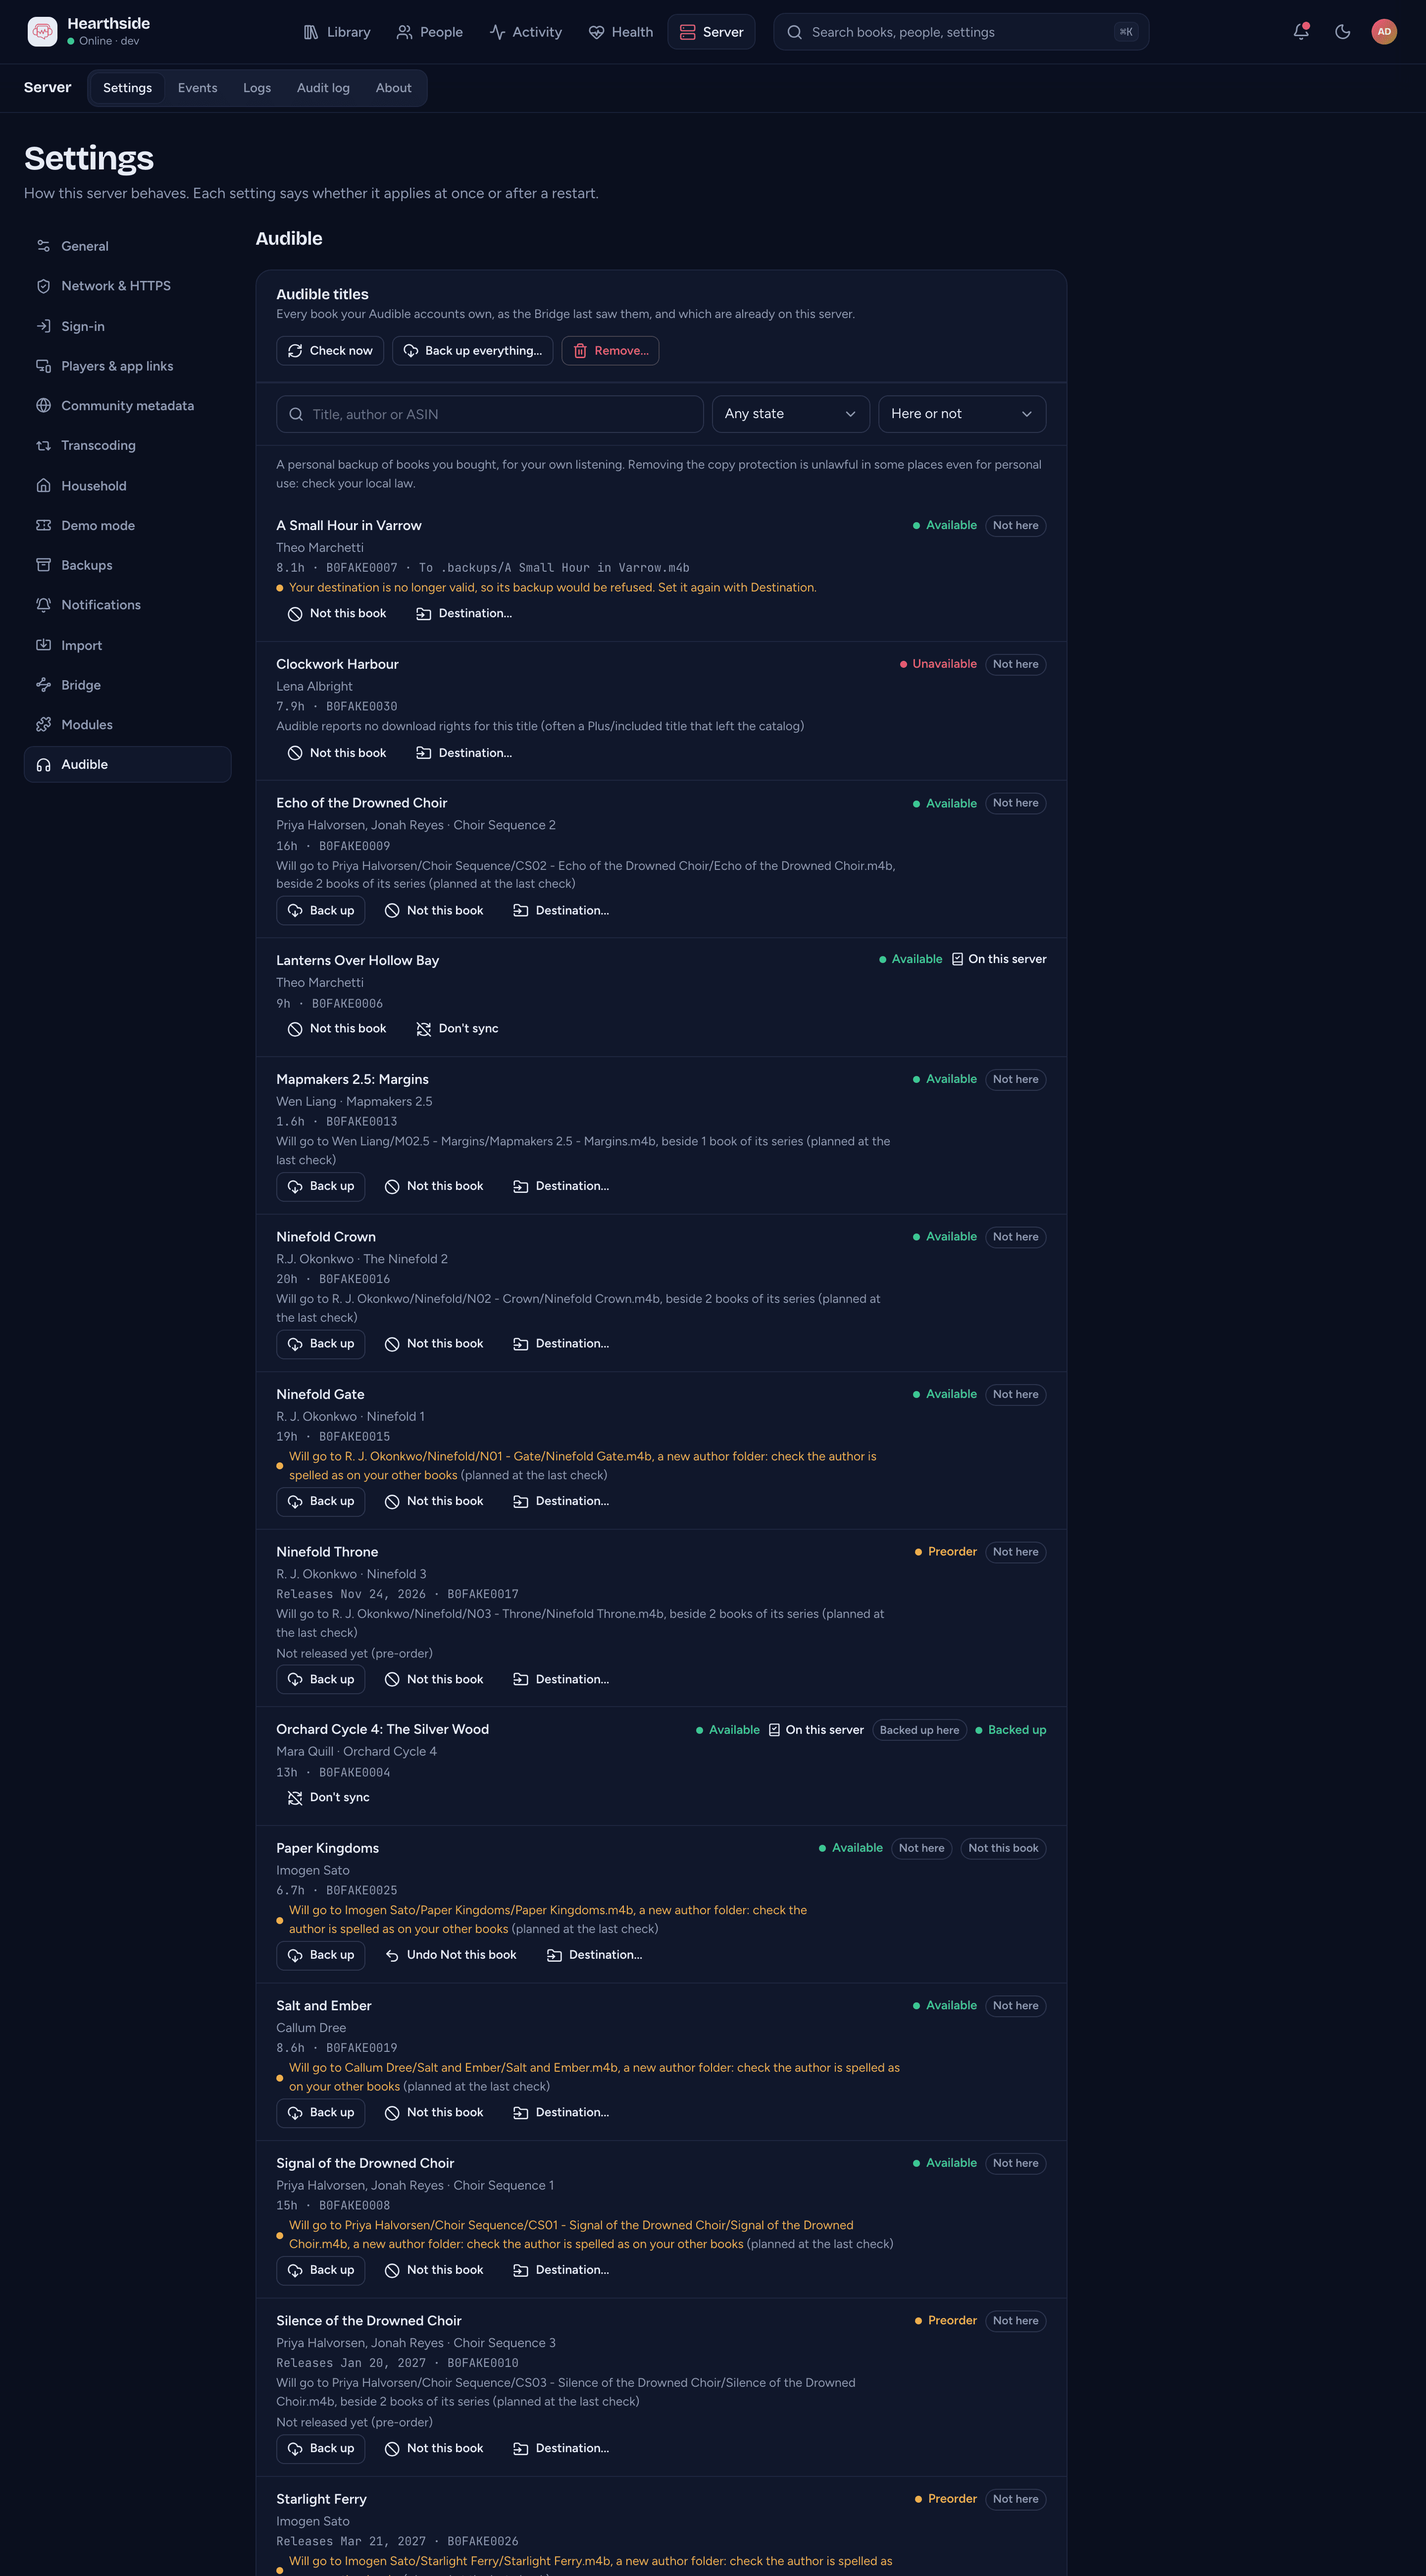
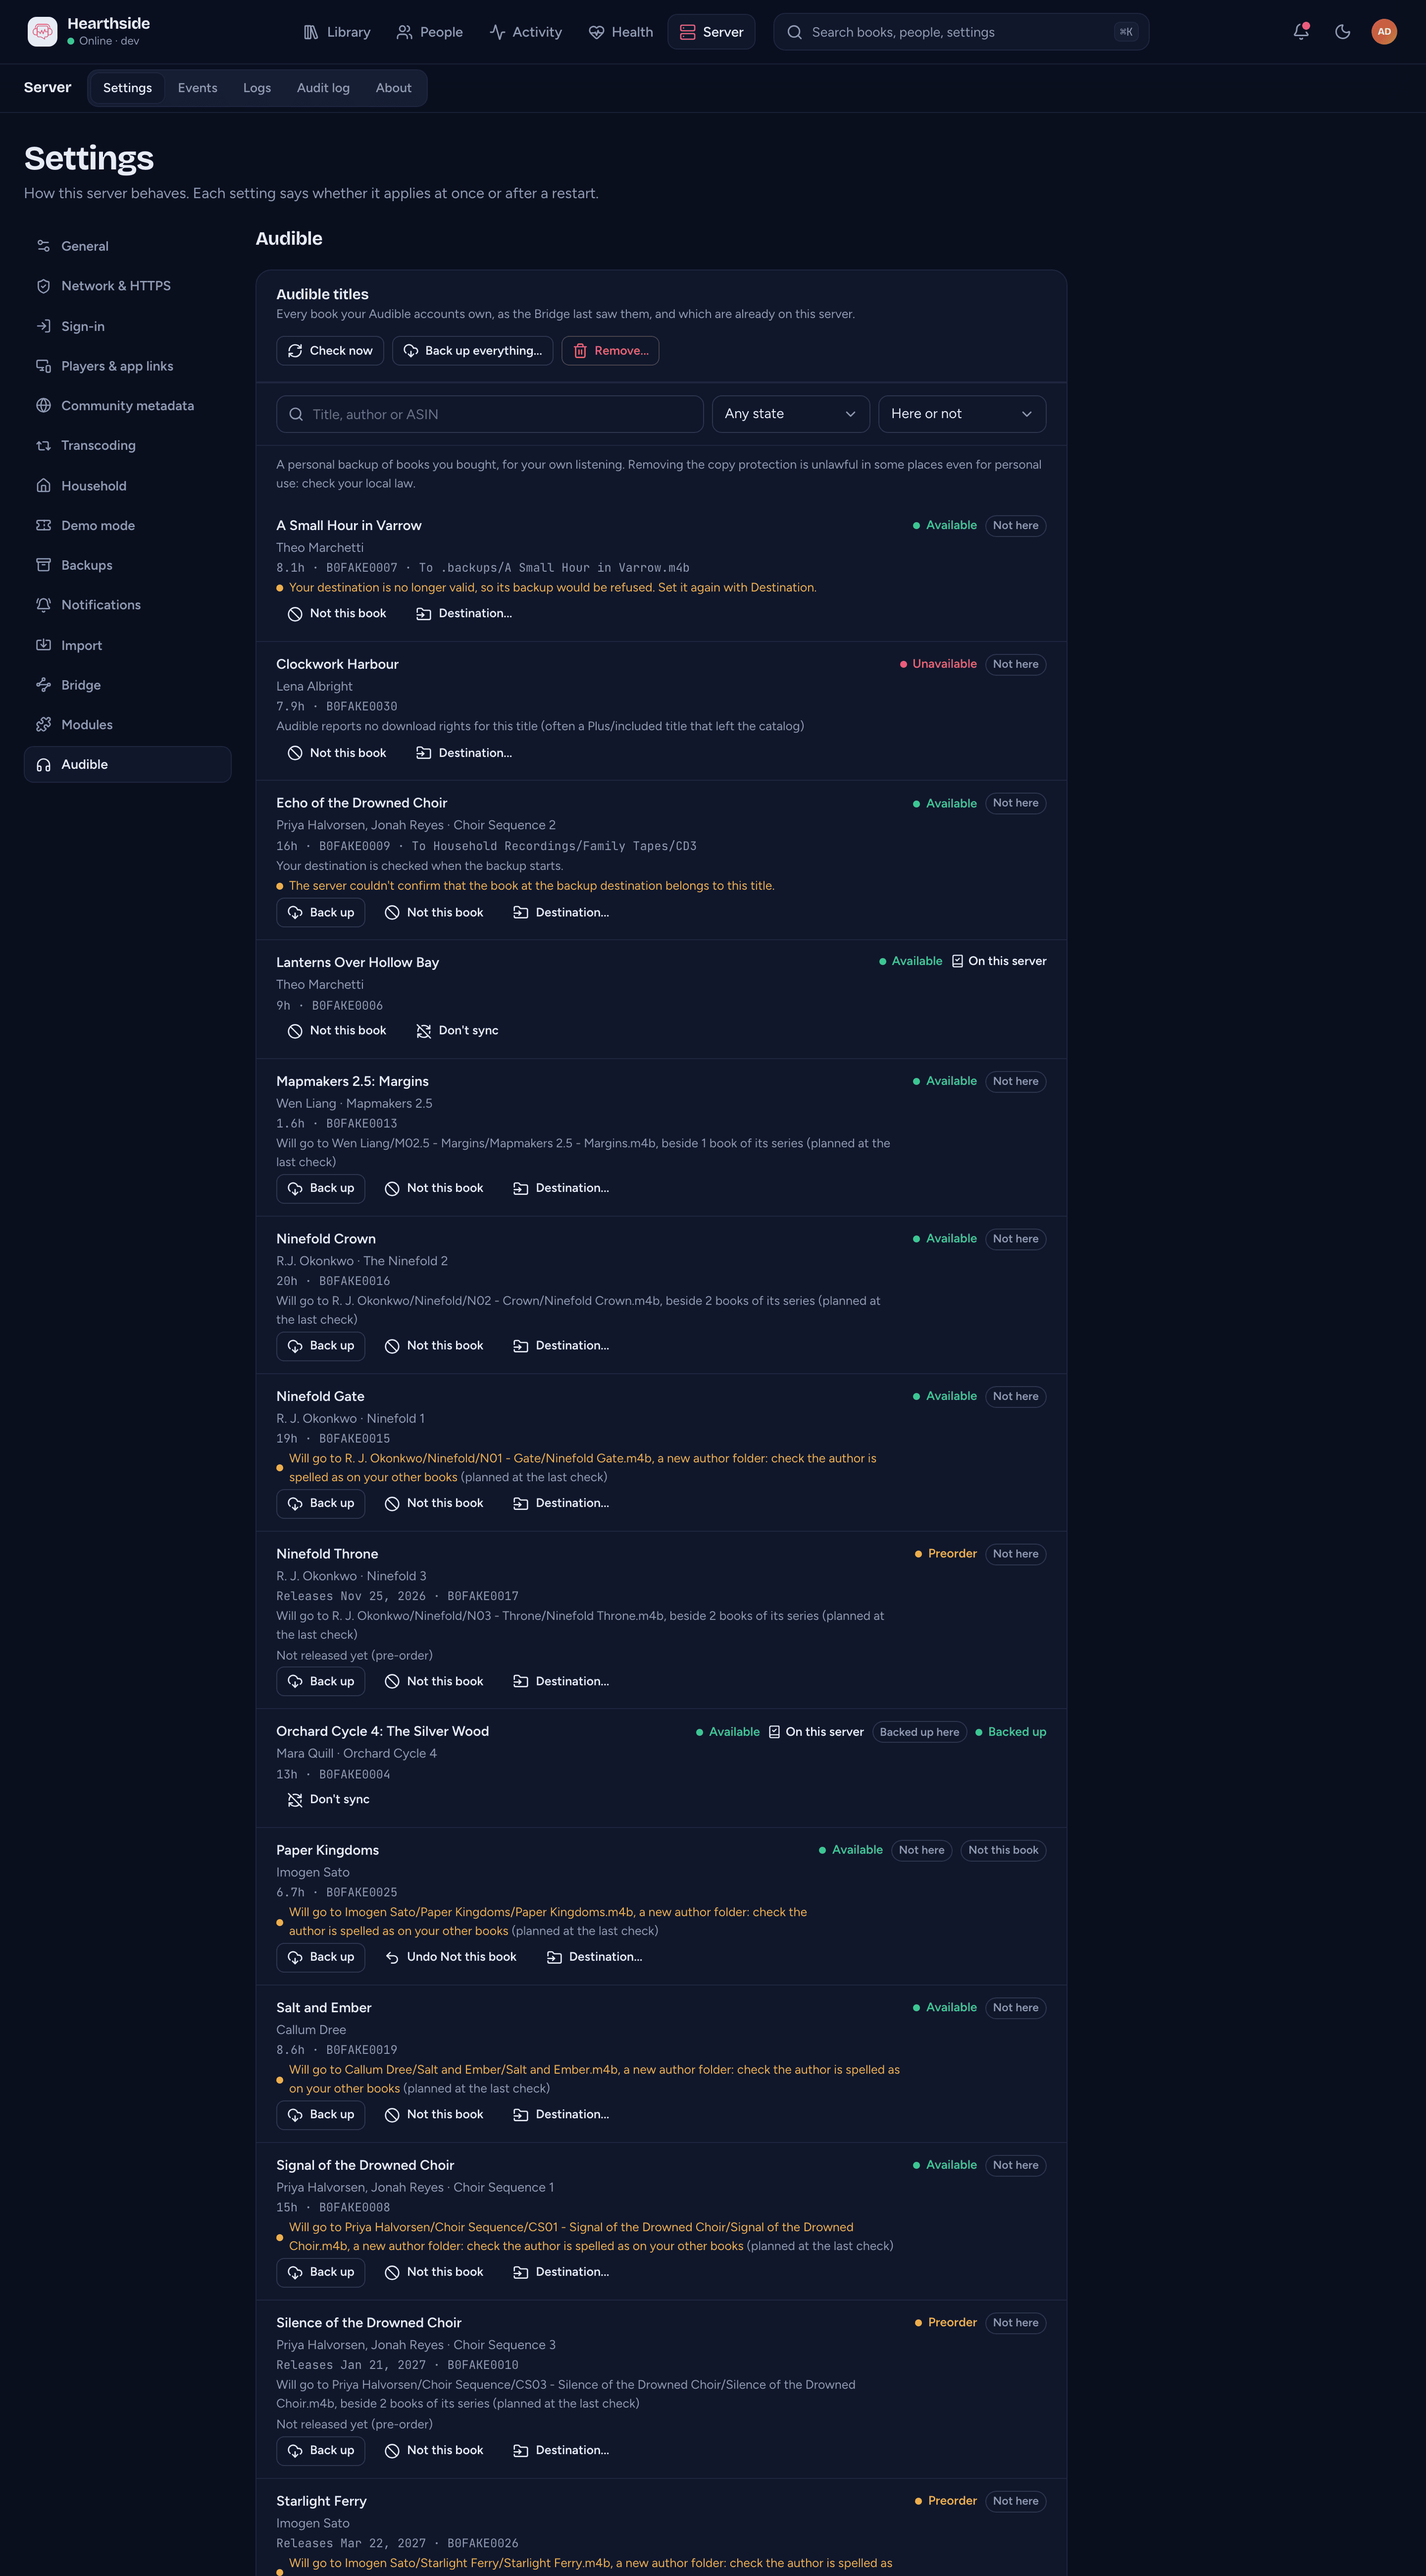
Show an Audible backup match refusal in the titles list screenshot (#346)
Recaptures admin/audible-titles.png through screenshots/run.sh so the
console's Audible titles list shows a title whose finished backup the
server refused to match (KodeStar/audiosilo-server#561), beside ordinary
rows.

- The capture stages the refusal through the Audible fake and removes
its staging book (with a rescan) when the step ends, so later shots in
the same run (Back up everything: 16 queued, 1 skipped) are unchanged.
- The manifest hint, caption and alt text describe the new image; the
refusal sentence links to the section on unmatched backups.

No PNG placed by hand; only this image changed.

diff --git a/docs-users/admin/audible.md b/docs-users/admin/audible.md
@@ -69,9 +69,11 @@ Bridge's [Accounts tab](../getting-started/bridge-accounts.md#the-accounts-state
 
 ## The titles page
 
-![Audible titles with their backup states and a warning for the saved destination of A Small Hour in Varrow](/img/screenshots/admin/audible-titles.png)
+![Audible titles showing an invalid destination for A Small Hour in Varrow, an unmatched backup for Echo of the Drowned Choir and a successful backup for Orchard Cycle 4: The Silver Wood](/img/screenshots/admin/audible-titles.png)
 
 Choose **Destination...** on *A Small Hour in Varrow* to set a new place for its backup.
+For *Echo of the Drowned Choir*, the server couldn't confirm that the book at the destination belongs to this title
+(see [When the server can't match a finished backup](#when-the-server-cant-match-a-finished-backup)).
 
 **Server > Settings > Audible** lists every title your accounts own or have
 preordered. Each row says whether the title is **On this server** (with a link to
